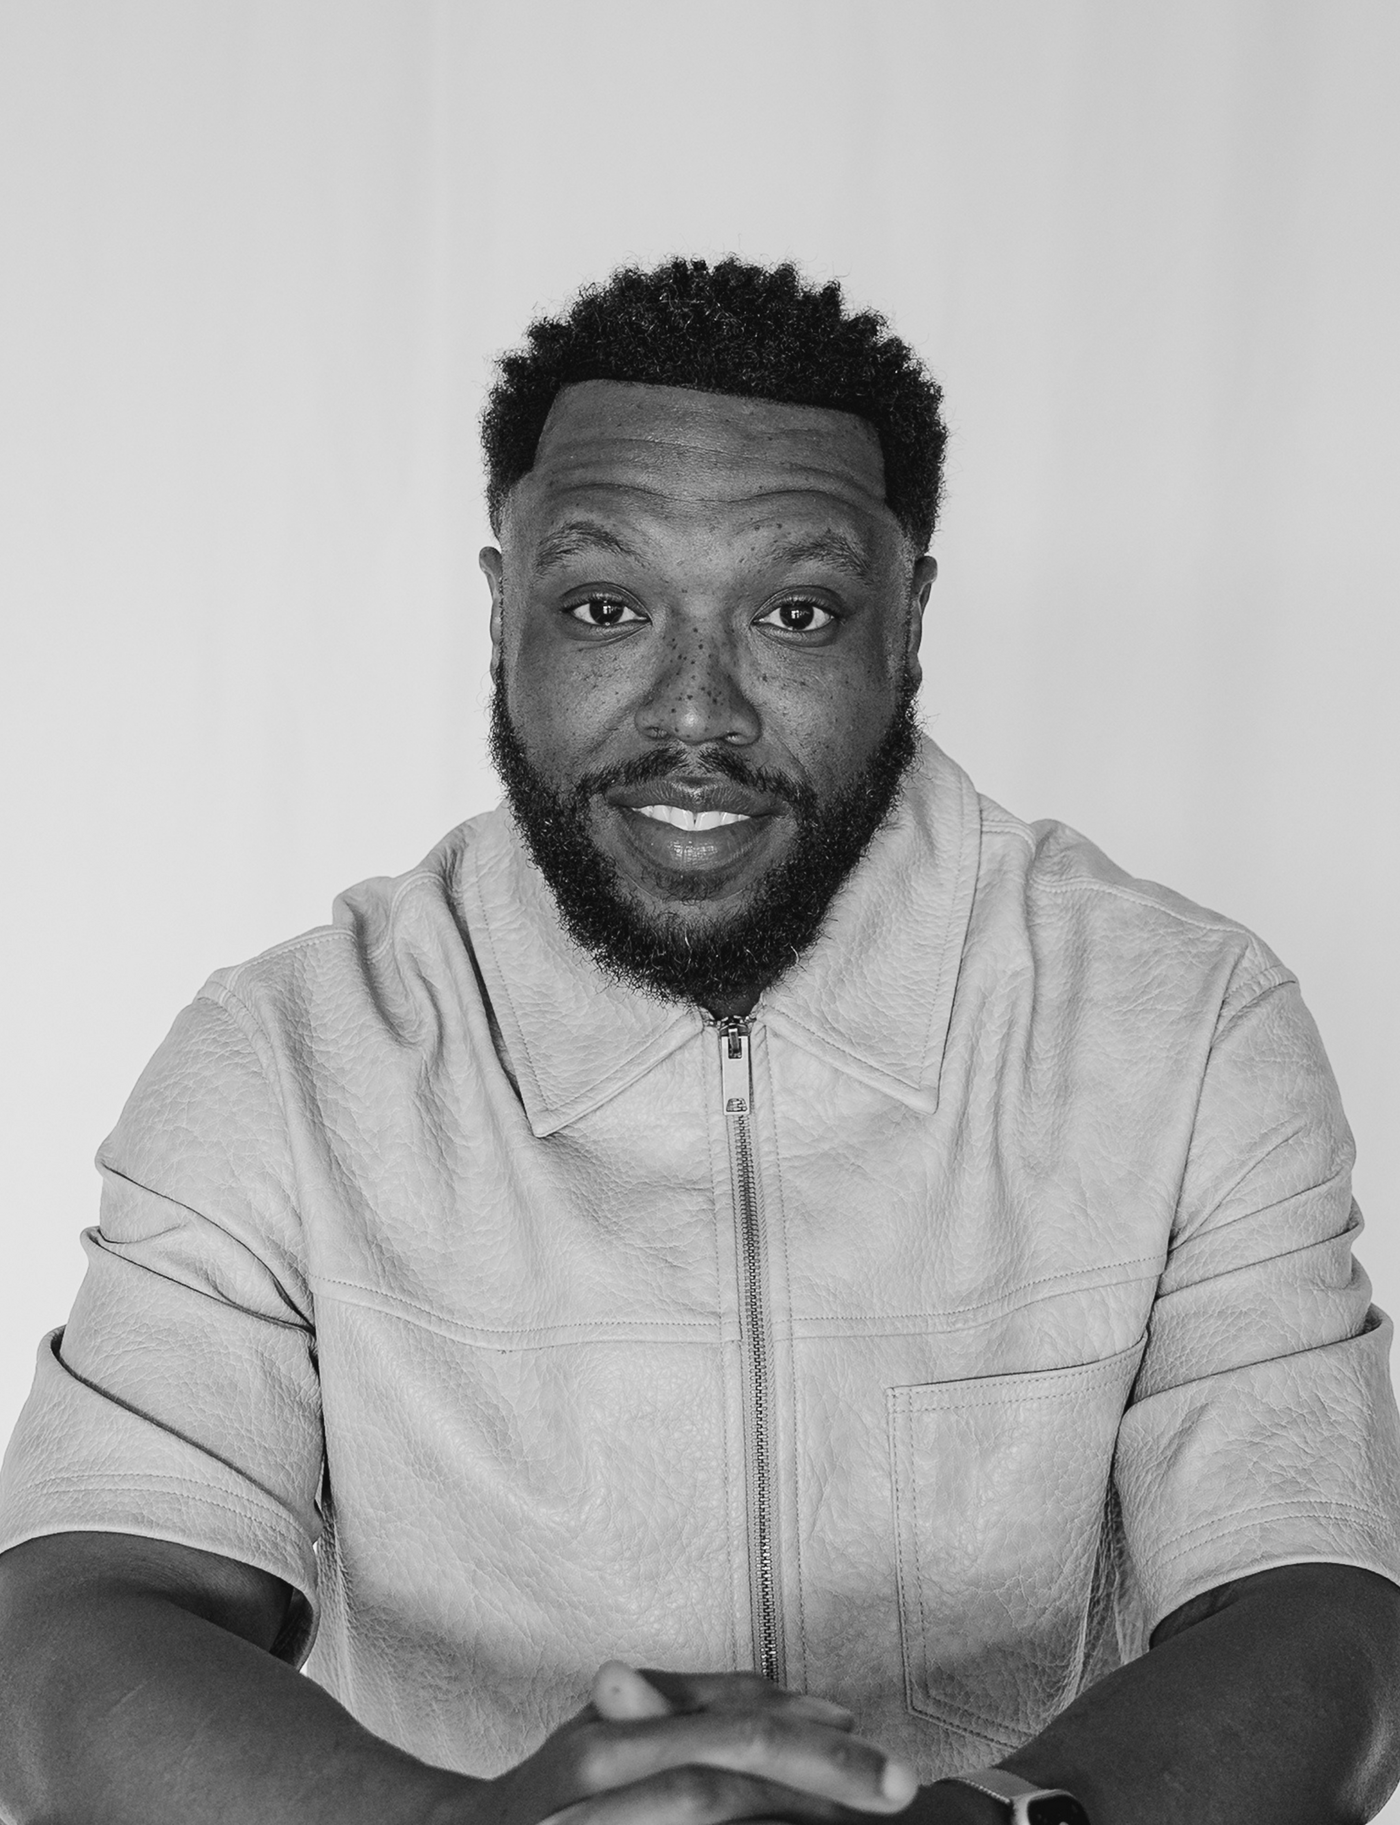
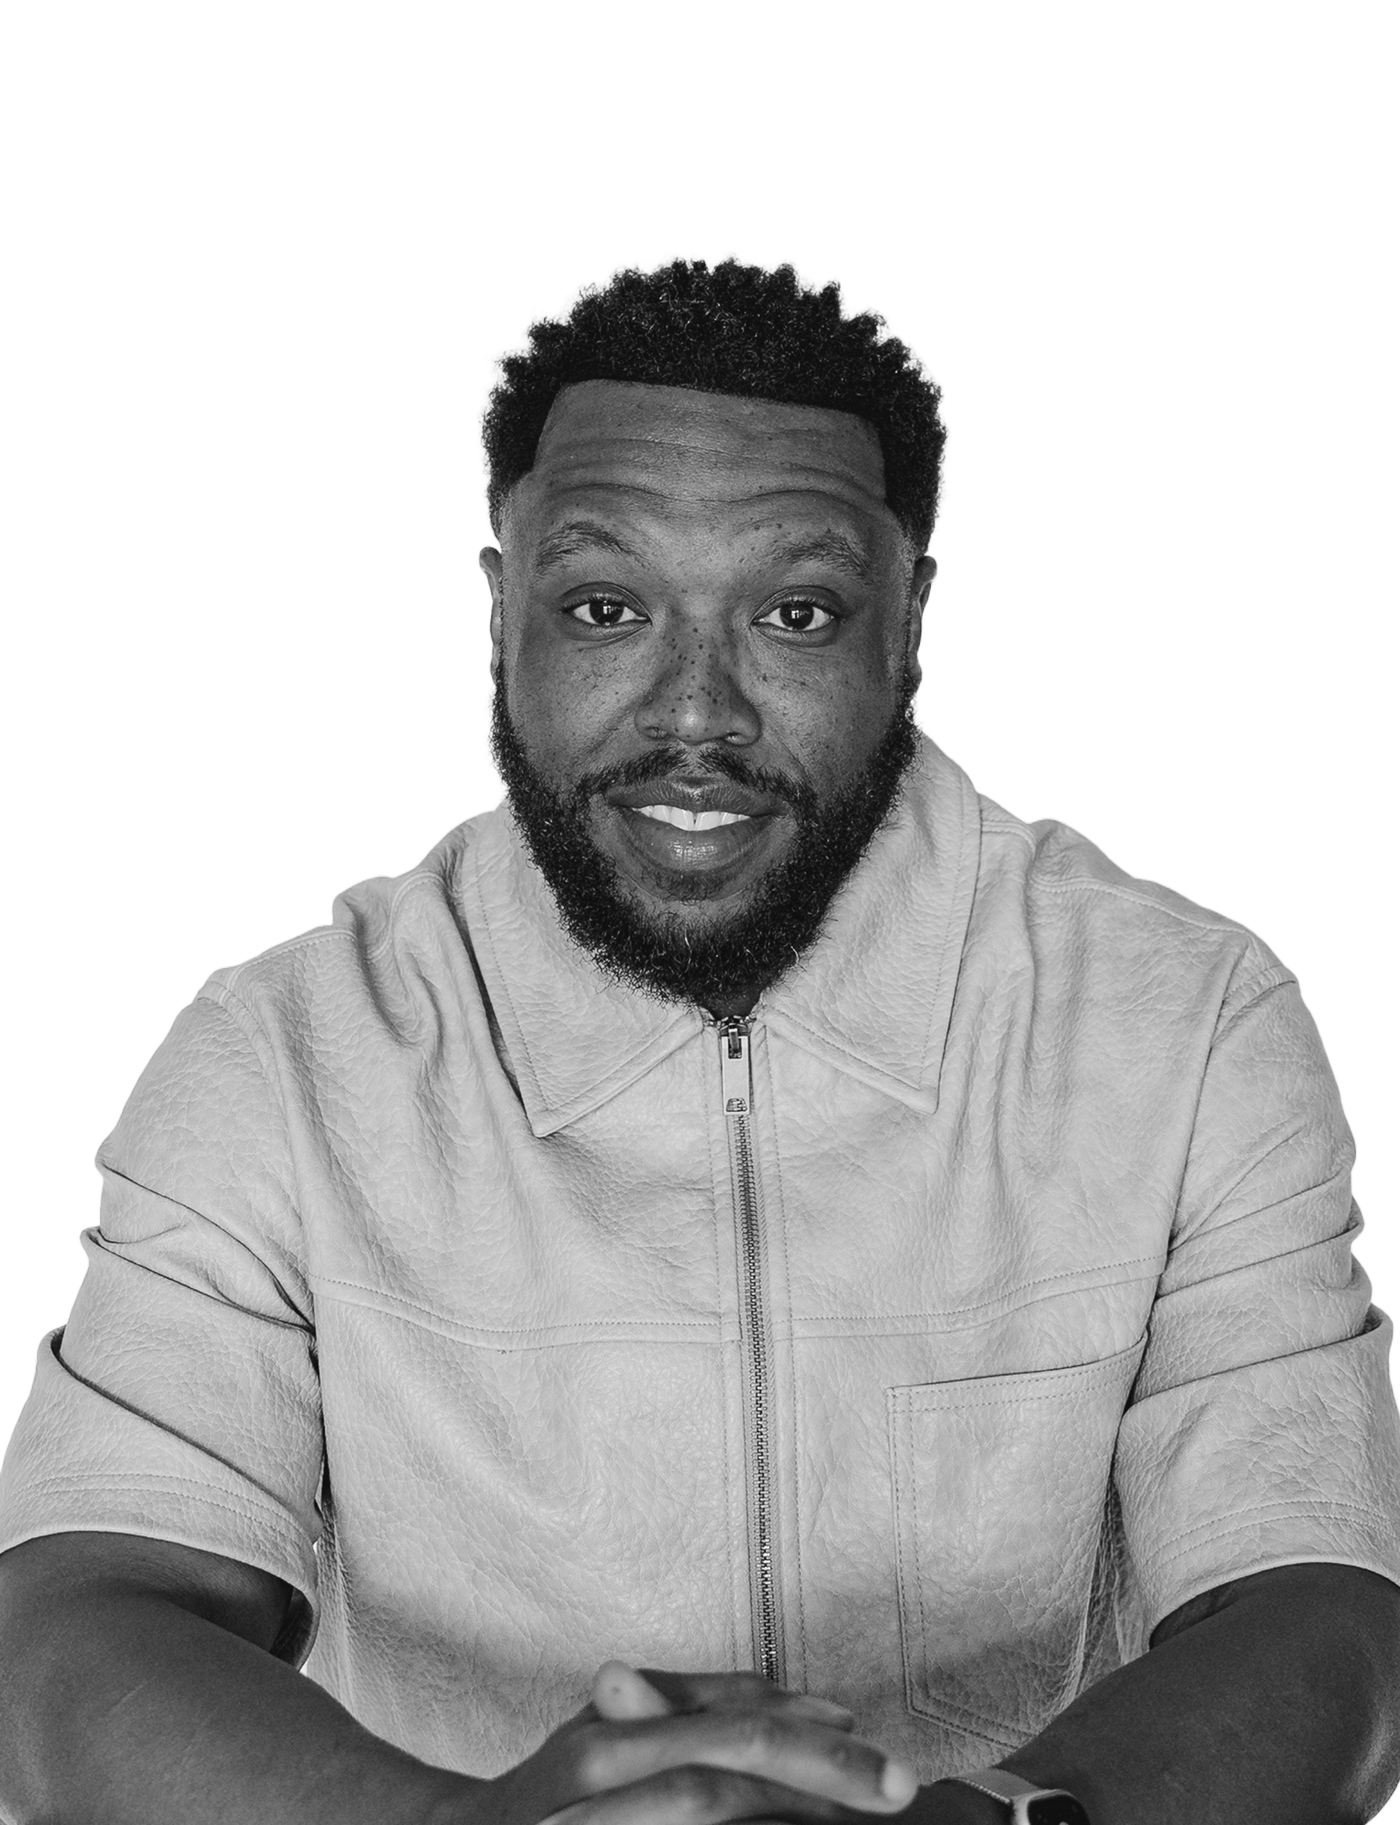
Update speaker photos, bios, and positions on the website
Replaces old images with new ones, updates speaker biographies with current roles and accomplishments, and swaps the display order of Mark Johnson and Josh Husmann in the HTML structure.

Replit-Commit-Author: Agent
Replit-Commit-Session-Id: e01e0a37-f6b8-4d32-92f0-f16ef31d5718
Replit-Commit-Checkpoint-Type: full_checkpoint
Replit-Commit-Event-Id: f6b3e452-d90b-437d-a9f5-58dd76a12a61
Replit-Commit-Screenshot-Url: https://storage.googleapis.com/screenshot-production-us-central1/0126704f-cd99-42df-8804-f2613f21357b/e01e0a37-f6b8-4d32-92f0-f16ef31d5718/8H3WOk6
Replit-Helium-Checkpoint-Created: true

diff --git a/index.html b/index.html
@@ -162,16 +162,16 @@
         <div class="section-resource__item">
           <div data-momentum-hover-element="" class="demo-card__wrap">
             <div data-momentum-hover-target="" class="demo-card">
-              <div class="demo-card__before"></div><img alt="Josh Husmann" src="images/josh.png" loading="eager" class="demo-card__image speaker3">
+              <div class="demo-card__before"></div><img alt="Mark Johnson" src="images/mark.png" loading="eager" class="demo-card__image speaker5">
               <div class="demo-card__content">
                 <div class="demo-card__name">
-                  <h3 class="demo-card__h3">Josh<br>Husmann</h3>
+                  <h3 class="demo-card__h3">Mark<br>Johnson</h3>
                 </div>
               </div>
             </div>
           </div>
           <div class="div-block-7">
-            <p data-sticky-feature-text="" class="sticky-features__p">Josh Husmann is the founding and lead pastor of Mercy Road Church in Carmel, Indiana. Since launching the church in 2011, he has led Mercy Road with a vision to reach people far from God and see them apprenticed to Jesus — growing it into a multiplying family of churches across the Indianapolis area.</p>
+            <p data-sticky-feature-text="" class="sticky-features__p">Dr. Mark Johnson is the lead pastor of Mercy Road Church Anderson, one of the fastest-growing churches in Indiana — reaching thousands with the hope of Christ in less than two years. Born and raised in Baltimore, he holds a Doctor of Ministry from United Theological Seminary and is the founder of Lead Different, a leadership and coaching platform equipping pastors and marketplace leaders.</p>
           </div>
         </div>
         <div class="section-resource__item">
@@ -192,16 +192,16 @@
         <div class="section-resource__item">
           <div data-momentum-hover-element="" class="demo-card__wrap">
             <div data-momentum-hover-target="" class="demo-card">
-              <div class="demo-card__before"></div><img alt="Mark Johnson" src="images/mark.png" loading="eager" class="demo-card__image speaker5">
+              <div class="demo-card__before"></div><img alt="Josh Husmann" src="images/josh.png" loading="eager" class="demo-card__image speaker3">
               <div class="demo-card__content">
                 <div class="demo-card__name">
-                  <h3 class="demo-card__h3">Mark<br>Johnson</h3>
+                  <h3 class="demo-card__h3">Josh<br>Husmann</h3>
                 </div>
               </div>
             </div>
           </div>
           <div class="div-block-7">
-            <p data-sticky-feature-text="" class="sticky-features__p">Bio coming soon.</p>
+            <p data-sticky-feature-text="" class="sticky-features__p">Josh Husmann is the founding pastor of Mercy Road Church in Carmel, Indiana, and now serves as the Director of the Mercy Road Family of Churches and Multiply Indiana. Since launching Mercy Road in 2011, he has helped grow it into a multiplying family of churches reaching thousands across Indiana, with a vision to see disciple-making churches planted throughout the state.</p>
           </div>
         </div>
       </div>
